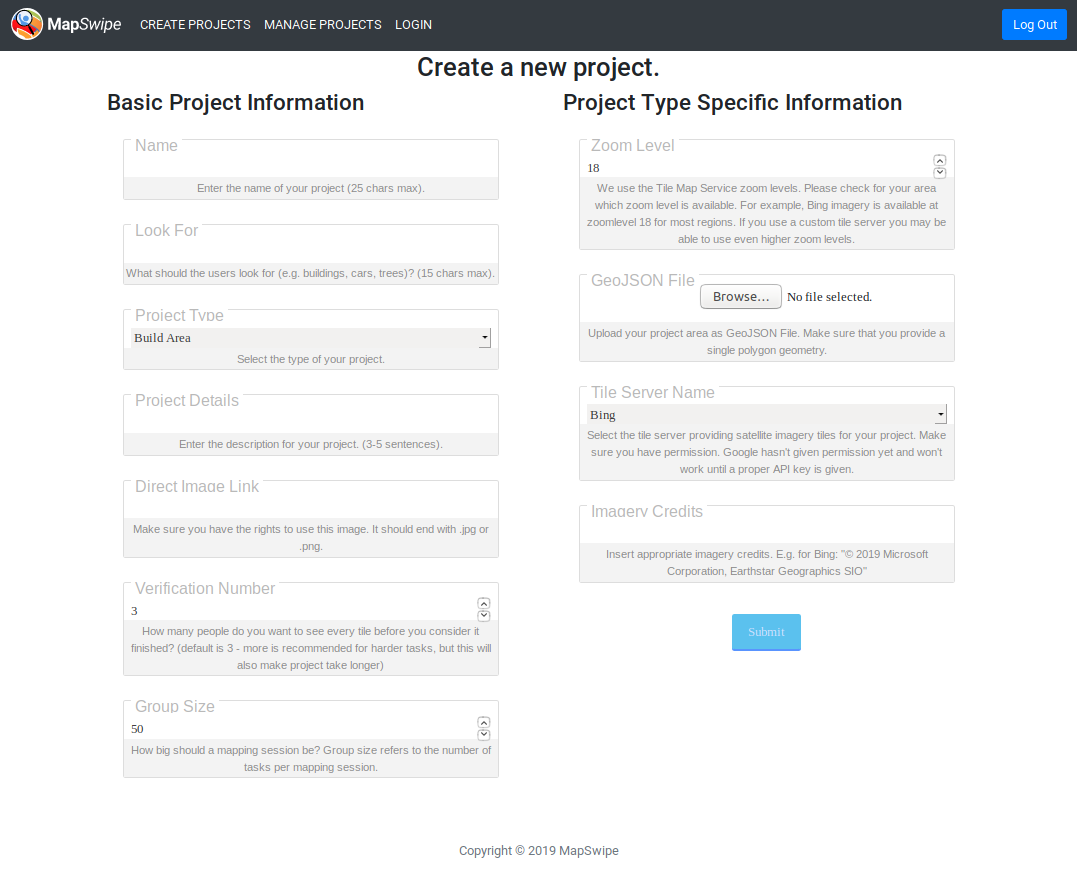
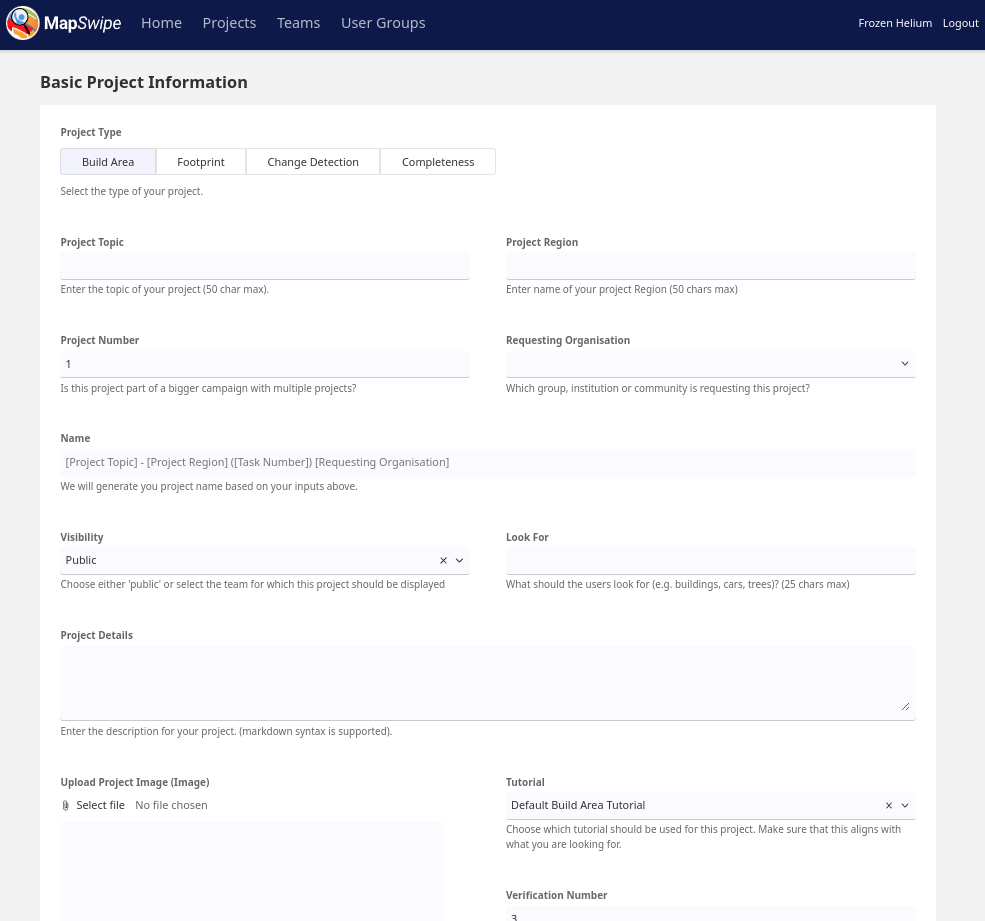
Update docs for Manager Dashboard

diff --git a/docs/source/for_mapswipe_managers.md b/docs/source/for_mapswipe_managers.md
@@ -5,6 +5,10 @@ Any of the Missing Maps members can request a MapSwipe mission. If you want to a
 
 To set up a new mission you can create a project draft through the [Manager Dashboard](https://dev.mapswipe.org/manager_dashboard/). Sign in with your MapSwipe account. In order to create new projects you need dedicated *project manager credentials*. Reach out to the MapSwipe community if you don't have these already. Once you're signed in, you will see a screen similar to the one below.
 
+![Manager Dashboard](_static/img/manager_dashboard_screenshot.png)
+
+You can directly go to create **New Project** page from here, or you can navigate to the **Projects** page from the navbar at the top and then click on **Add New Project** button on the top right. You'll be navigate to the New Project Page which will look like following.
+
 ![Project Import Form](_static/img/manager_dashboard_create_screenshot.png)
 
 General points of attention: 
@@ -24,8 +28,8 @@ For Footprint projects:
 
 Once you submit, the task should appear relatively quickly in the manager dashboard. You will receive a message in Slack. 
 But it's still not active and not visible to the MapSwipe app users. 
-You need to set the project status to `active` through the manager dashboard. Just click on the respective button. 
-If the new project does not appear in the app after about 1 hour, check Slack for an error message, and see Troubleshooting below.
+You need to set the project status to `active` through the manager dashboard. Just navigate to the **Projects** page and then change the Project Status on the left filter pane to show **Inactive** projects. You'll find the project you've just created here. Now, you can set the project status to be **Active** from the dropdown as shown in the screenshot below.
+If the new project does not appear in the app after about 1 hour, check Slack for an error message, and see Troubleshooting section below.
 
 ![Project Management](_static/img/manager_dashboard_manage_screenshot.png)
  

diff --git a/docs/source/overview.md b/docs/source/overview.md
@@ -21,7 +21,7 @@
 - Mapswipe Client is writing to `results.projectId.groupId.userId1.` in form of `timestamp` and `resultCount` attributes when and how many results were generated.
 - The result itself will be written to `results.projectId.groupId.userId1.taskId1.result`.
 
-#### Mapswipe Client (Manager Dashboard) - Realtime Database
+#### Manager Dashboard - Realtime Database
 - Using the Manager Dashboard user can submitt new project drafts to Firebase (`project_drafts.projectDraftId.`)
 
 #### Community Dashboard - Aggregated Cached data from Database
